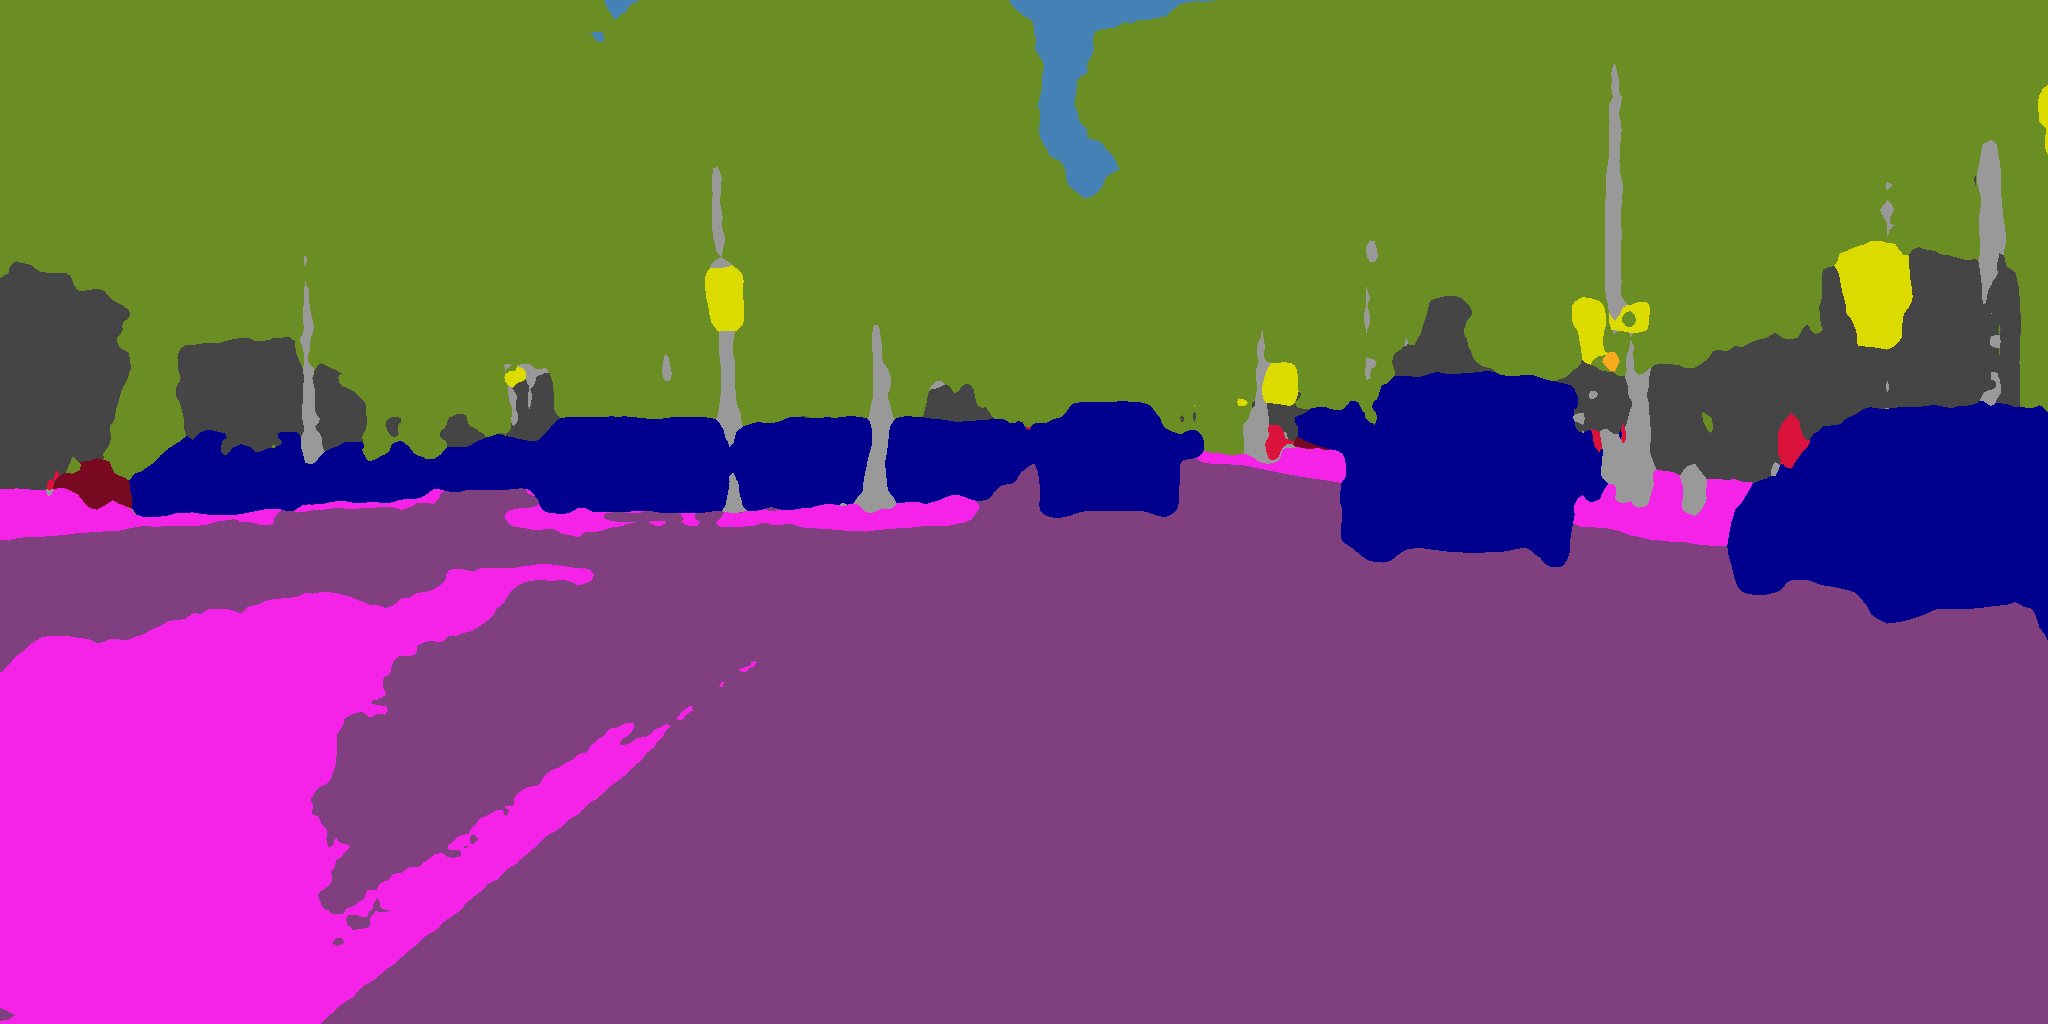
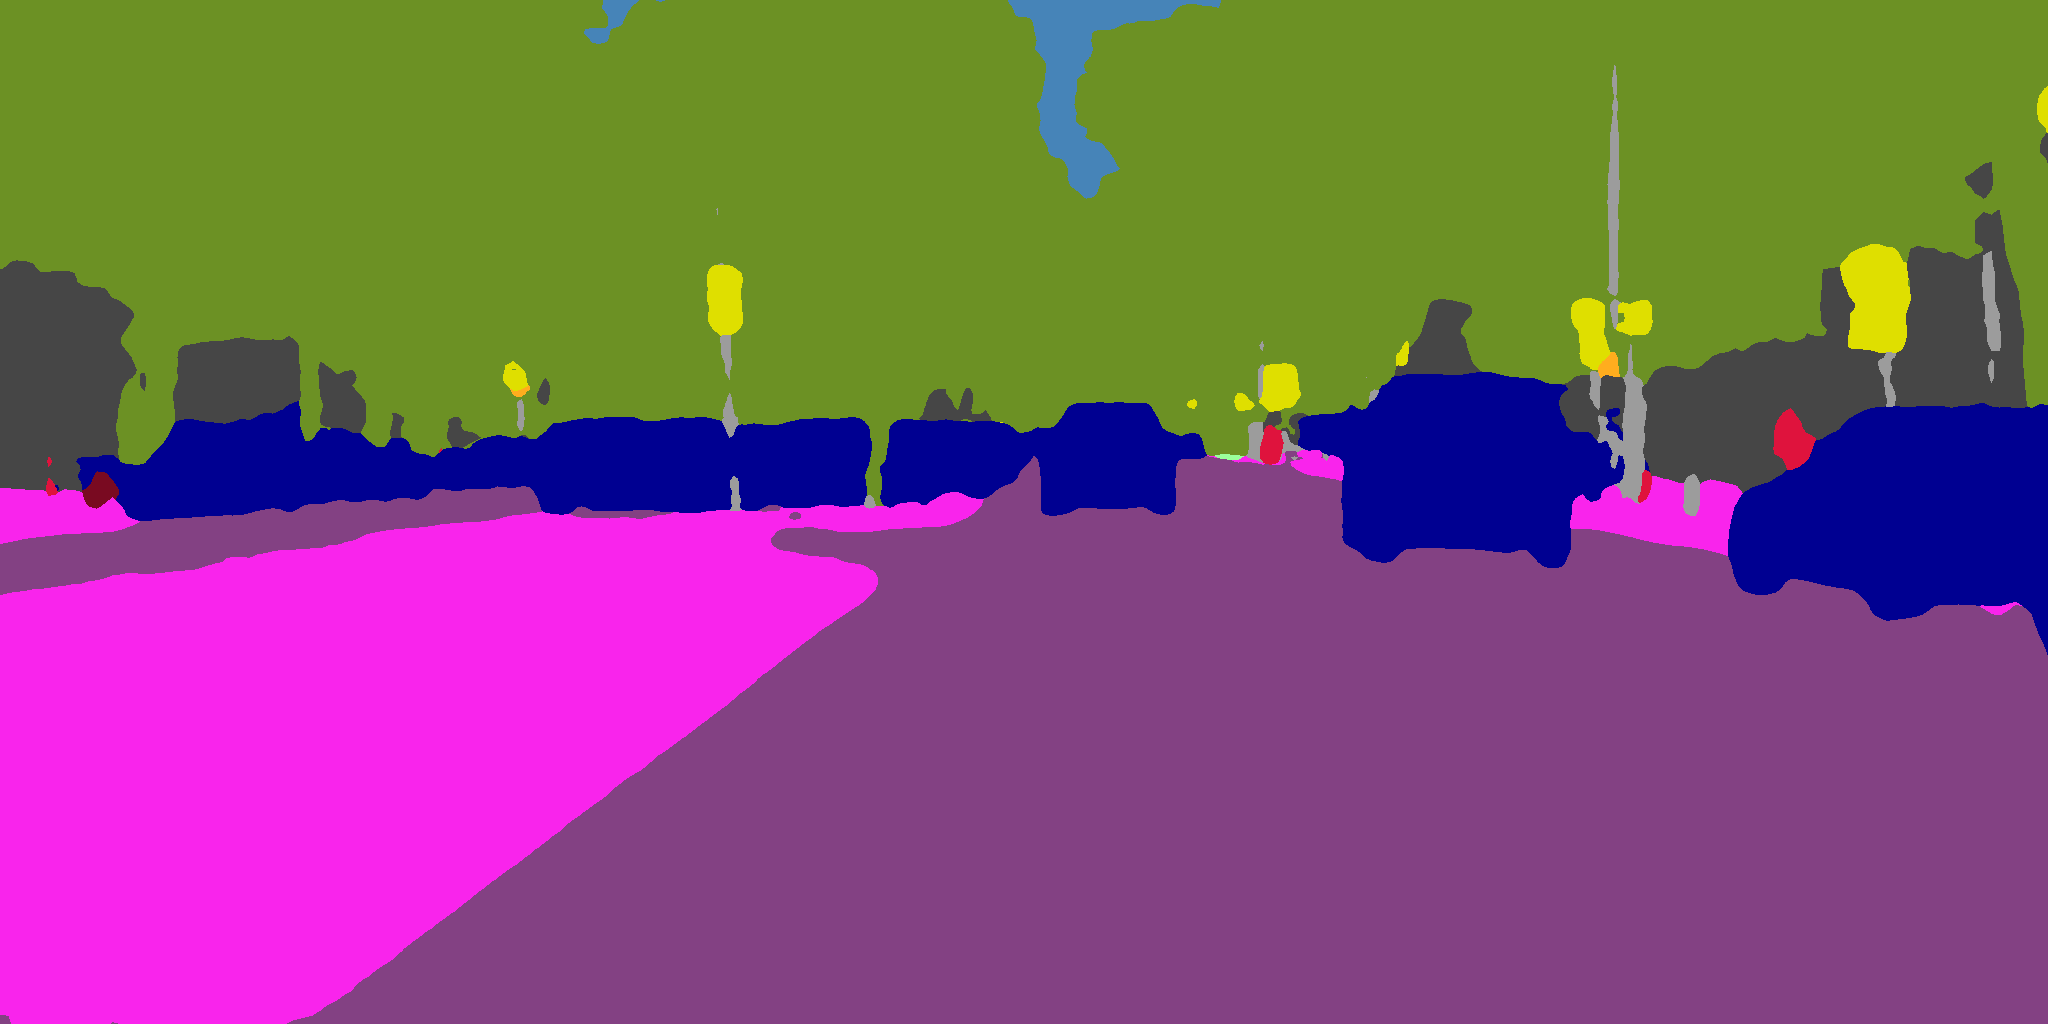
fix decode label bottleneck

diff --git a/tools.py b/tools.py
@@ -3,40 +3,29 @@ import numpy as np
 from PIL import Image
 import tensorflow as tf
 
-label_colours = [(128, 64, 128), (244, 35, 231), (69, 69, 69)
+label_colours = [[128, 64, 128], [244, 35, 231], [69, 69, 69]
                 # 0 = road, 1 = sidewalk, 2 = building
-                ,(102, 102, 156), (190, 153, 153), (153, 153, 153)
+                ,[102, 102, 156], [190, 153, 153], [153, 153, 153]
                 # 3 = wall, 4 = fence, 5 = pole
-                ,(250, 170, 29), (219, 219, 0), (106, 142, 35)
+                ,[250, 170, 29], [219, 219, 0], [106, 142, 35]
                 # 6 = traffic light, 7 = traffic sign, 8 = vegetation
-                ,(152, 250, 152), (69, 129, 180), (219, 19, 60)
+                ,[152, 250, 152], [69, 129, 180], [219, 19, 60]
                 # 9 = terrain, 10 = sky, 11 = person
-                ,(255, 0, 0), (0, 0, 142), (0, 0, 69)
+                ,[255, 0, 0], [0, 0, 142], [0, 0, 69]
                 # 12 = rider, 13 = car, 14 = truck
-                ,(0, 60, 100), (0, 79, 100), (0, 0, 230)
+                ,[0, 60, 100], [0, 79, 100], [0, 0, 230]
                 # 15 = bus, 16 = train, 17 = motocycle
-                ,(119, 10, 32), (1, 1, 1),  (222, 101, 215)
-
-                ,(20, 60, 80), (220, 79, 89), (20, 20, 230)
-
-                ,(60, 60, 110), (0, 100, 50), (10, 100, 230)
-
-                ,(44, 88, 166)]
+                ,[119, 10, 32], [1, 1, 1]]
                 # 18 = bicycle, 19 = void label
 
-def decode_labels(mask, num_images=1, num_classes=19):
-    n, h, w, c = mask.shape
-    assert(n >= num_images), 'Batch size %d should be greater or equal than number of images to save %d.' % (n, num_images)
-    outputs = np.zeros((num_images, h, w, 3), dtype=np.uint8)
-    for i in range(num_images):
-      img = Image.new('RGB', (len(mask[i, 0]), len(mask[i])))
-      pixels = img.load()
-      for j_, j in enumerate(mask[i, :, :, 0]):
-          for k_, k in enumerate(j):
-              if k < num_classes:
-                  pixels[k_,j_] = label_colours[k]
-      outputs[i] = np.array(img)
-    return outputs
+def decode_labels(mask, img_shape, num_classes):
+    color_mat = tf.constant(label_colours, dtype=tf.float32)
+    onehot_output = tf.one_hot(mask, depth=num_classes+1)
+    onehot_output = tf.reshape(onehot_output, (-1, num_classes+1))
+    pred = tf.matmul(onehot_output, color_mat)
+    pred = tf.reshape(pred, (1, img_shape[0], img_shape[1], 3))
+    
+    return pred
 
 def prepare_label(input_batch, new_size, num_classes, one_hot=True):
     with tf.name_scope('label_encode'):

diff --git a/inference.py b/inference.py
@@ -117,7 +117,7 @@ def main():
     raw_output_up = tf.image.resize_bilinear(raw_output, size=n_shape, align_corners=True)
     raw_output_up = tf.image.crop_to_bounding_box(raw_output_up, 0, 0, shape[0], shape[1])
     raw_output_up = tf.argmax(raw_output_up, dimension=3)
-    pred = tf.expand_dims(raw_output_up, dim=3)
+    pred = decode_labels(raw_output_up, shape, num_classes)
 
     # Init tf Session
     config = tf.ConfigProto()
@@ -149,12 +149,10 @@ def main():
             load(loader, sess, ckpt.model_checkpoint_path)
 
     preds = sess.run(pred, feed_dict={x: img})
-    
-    msk = decode_labels(preds, num_classes=num_classes)
-    im = Image.fromarray(msk[0])
+
     if not os.path.exists(args.save_dir):
         os.makedirs(args.save_dir)
-    im.save(args.save_dir + filename)
+    misc.imsave(args.save_dir + filename, preds[0])
 
 if __name__ == '__main__':
     main()
